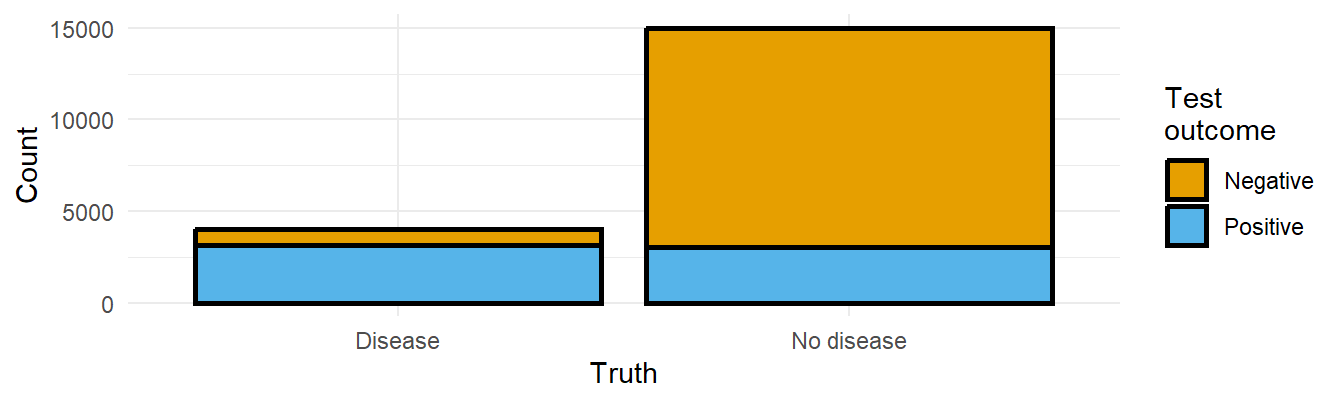
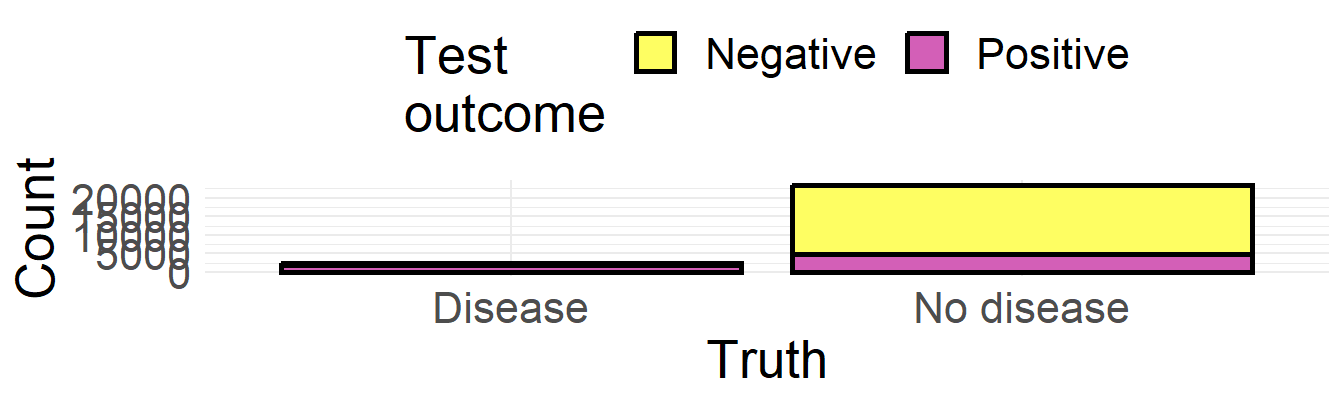
code used to update question

diff --git a/covid_question.html b/covid_question.html
@@ -80,6 +80,7 @@ pre > code.sourceCode > span > a:first-child::before { text-decoration: underlin
 <header id="title-block-header" class="quarto-title-block default">
 <div class="quarto-title">
 <h1 class="title">ds assessment question</h1>
+<p class="subtitle lead">disease</p>
 </div>
 
 
@@ -99,112 +100,36 @@ pre > code.sourceCode > span > a:first-child::before { text-decoration: underlin
 <section id="packages" class="level2">
 <h2 class="anchored" data-anchor-id="packages">Packages</h2>
 <div class="cell">
-<div class="sourceCode cell-code" id="cb1"><pre class="sourceCode r code-with-copy"><code class="sourceCode r"><span id="cb1-1"><a href="#cb1-1" aria-hidden="true" tabindex="-1"></a><span class="fu">library</span>(tidyverse)</span></code><button title="Copy to Clipboard" class="code-copy-button"><i class="bi"></i></button></pre></div>
-<div class="cell-output cell-output-stderr">
-<pre><code>── Attaching core tidyverse packages ──────────────────────── tidyverse 2.0.0 ──
-✔ dplyr     1.1.2     ✔ readr     2.1.4
-✔ forcats   1.0.0     ✔ stringr   1.5.0
-✔ ggplot2   3.4.2     ✔ tibble    3.2.1
-✔ lubridate 1.9.2     ✔ tidyr     1.3.0
-✔ purrr     1.0.1     
-── Conflicts ────────────────────────────────────────── tidyverse_conflicts() ──
-✖ dplyr::filter() masks stats::filter()
-✖ dplyr::lag()    masks stats::lag()
-ℹ Use the conflicted package (&lt;http://conflicted.r-lib.org/&gt;) to force all conflicts to become errors</code></pre>
-</div>
-<div class="sourceCode cell-code" id="cb3"><pre class="sourceCode r code-with-copy"><code class="sourceCode r"><span id="cb3-1"><a href="#cb3-1" aria-hidden="true" tabindex="-1"></a><span class="fu">library</span>(colorblindr)</span></code><button title="Copy to Clipboard" class="code-copy-button"><i class="bi"></i></button></pre></div>
-<div class="cell-output cell-output-stderr">
-<pre><code>Loading required package: colorspace</code></pre>
-</div>
-<div class="sourceCode cell-code" id="cb5"><pre class="sourceCode r code-with-copy"><code class="sourceCode r"><span id="cb5-1"><a href="#cb5-1" aria-hidden="true" tabindex="-1"></a><span class="fu">library</span>(ggmosaic)</span>
-<span id="cb5-2"><a href="#cb5-2" aria-hidden="true" tabindex="-1"></a><span class="fu">library</span>(patchwork)</span></code><button title="Copy to Clipboard" class="code-copy-button"><i class="bi"></i></button></pre></div>
+<div class="sourceCode cell-code" id="cb1"><pre class="sourceCode r code-with-copy"><code class="sourceCode r"><span id="cb1-1"><a href="#cb1-1" aria-hidden="true" tabindex="-1"></a><span class="fu">library</span>(tidyverse)</span>
+<span id="cb1-2"><a href="#cb1-2" aria-hidden="true" tabindex="-1"></a><span class="fu">library</span>(colorblindr)</span>
+<span id="cb1-3"><a href="#cb1-3" aria-hidden="true" tabindex="-1"></a><span class="fu">library</span>(ggmosaic)</span>
+<span id="cb1-4"><a href="#cb1-4" aria-hidden="true" tabindex="-1"></a><span class="fu">library</span>(patchwork)</span>
+<span id="cb1-5"><a href="#cb1-5" aria-hidden="true" tabindex="-1"></a><span class="fu">library</span>(viridis)</span></code><button title="Copy to Clipboard" class="code-copy-button"><i class="bi"></i></button></pre></div>
 </div>
 </section>
 <section id="sec-disease-screening" class="level2">
 <h2 class="anchored" data-anchor-id="sec-disease-screening">Disease Screening</h2>
-<p>Medical screening tests are not 100% accurate. It’s possible to have a disease but not test positive or not have a disease but test positive for it. The following three visualizations display the outcomes of a medical screening test with a sensitivity (true positive rate) of 98.1% and specificity (true negative rate) of 99.6% in a population where 5% of the individuals have COVID.</p>
+<p>Medical screening tests are not 100% accurate. It’s possible to have a disease but not test positive or not have a disease but test positive for it. The following three visualizations display the outcomes of a medical screening test with a sensitivity (true positive rate) of 78.2% and specificity (true negative rate) of 79.6% in a population where 5% of the individuals have the disease.</p>
 <p>We are also interested in the false positive (individuals classified as with a disease, who don’t actually have it) and false negative (individuals classified as without a disease, but who do actually have it) rates.</p>
 <div class="cell">
-<div class="sourceCode cell-code" id="cb6"><pre class="sourceCode r code-with-copy"><code class="sourceCode r"><span id="cb6-1"><a href="#cb6-1" aria-hidden="true" tabindex="-1"></a><span class="co"># https://www.fda.gov/medical-devices/coronavirus-disease-2019-covid-19-emergency-use-authorizations-medical-devices/eua-authorized-serology-test-performance</span></span>
-<span id="cb6-2"><a href="#cb6-2" aria-hidden="true" tabindex="-1"></a><span class="co"># IgG   Sensitivity (PPA)   98.1% (51/52)   (89.9%; 99.7%)</span></span>
-<span id="cb6-3"><a href="#cb6-3" aria-hidden="true" tabindex="-1"></a><span class="co"># IgG   Specificity (NPA)   99.6% (2000/2008)   (99.2%; 99.8%)</span></span>
-<span id="cb6-4"><a href="#cb6-4" aria-hidden="true" tabindex="-1"></a></span>
-<span id="cb6-5"><a href="#cb6-5" aria-hidden="true" tabindex="-1"></a>sensitivity <span class="ot">&lt;-</span> <span class="fl">0.782</span> <span class="co">#was .981 </span></span>
-<span id="cb6-6"><a href="#cb6-6" aria-hidden="true" tabindex="-1"></a>specificity <span class="ot">&lt;-</span> <span class="fl">0.796</span> <span class="co">#was .996</span></span>
-<span id="cb6-7"><a href="#cb6-7" aria-hidden="true" tabindex="-1"></a>n_disease <span class="ot">&lt;-</span> <span class="dv">4000</span> <span class="co">#was 1000</span></span>
-<span id="cb6-8"><a href="#cb6-8" aria-hidden="true" tabindex="-1"></a>n_no_disease <span class="ot">&lt;-</span> <span class="dv">15000</span> <span class="co">#was 19000</span></span>
-<span id="cb6-9"><a href="#cb6-9" aria-hidden="true" tabindex="-1"></a>n_disease_positive <span class="ot">&lt;-</span> n_disease <span class="sc">*</span> sensitivity</span>
-<span id="cb6-10"><a href="#cb6-10" aria-hidden="true" tabindex="-1"></a>n_disease_negative <span class="ot">&lt;-</span> n_disease <span class="sc">-</span> n_disease_positive</span>
-<span id="cb6-11"><a href="#cb6-11" aria-hidden="true" tabindex="-1"></a>n_no_disease_negative <span class="ot">&lt;-</span> n_no_disease <span class="sc">*</span> specificity</span>
-<span id="cb6-12"><a href="#cb6-12" aria-hidden="true" tabindex="-1"></a>n_no_disease_positive <span class="ot">&lt;-</span> n_no_disease <span class="sc">-</span> n_no_disease_negative</span>
-<span id="cb6-13"><a href="#cb6-13" aria-hidden="true" tabindex="-1"></a></span>
-<span id="cb6-14"><a href="#cb6-14" aria-hidden="true" tabindex="-1"></a></span>
-<span id="cb6-15"><a href="#cb6-15" aria-hidden="true" tabindex="-1"></a>disease_status <span class="ot">&lt;-</span> <span class="fu">c</span>(<span class="fu">rep</span>(<span class="st">"Disease"</span>, n_disease), <span class="fu">rep</span>(<span class="st">"No disease"</span>, n_no_disease))</span>
-<span id="cb6-16"><a href="#cb6-16" aria-hidden="true" tabindex="-1"></a>test_outcome <span class="ot">&lt;-</span> <span class="fu">c</span>(</span>
-<span id="cb6-17"><a href="#cb6-17" aria-hidden="true" tabindex="-1"></a>  <span class="fu">rep</span>(<span class="st">"Positive"</span>, n_disease_positive), <span class="fu">rep</span>(<span class="st">"Negative"</span>, n_disease_negative),</span>
-<span id="cb6-18"><a href="#cb6-18" aria-hidden="true" tabindex="-1"></a>  <span class="fu">rep</span>(<span class="st">"Positive"</span>, n_no_disease_positive), <span class="fu">rep</span>(<span class="st">"Negative"</span>, n_no_disease_negative)</span>
-<span id="cb6-19"><a href="#cb6-19" aria-hidden="true" tabindex="-1"></a>)</span>
-<span id="cb6-20"><a href="#cb6-20" aria-hidden="true" tabindex="-1"></a>population <span class="ot">&lt;-</span> <span class="fu">tibble</span>(<span class="at">disease_status =</span> disease_status, <span class="at">test_outcome =</span> test_outcome)</span>
-<span id="cb6-21"><a href="#cb6-21" aria-hidden="true" tabindex="-1"></a></span>
-<span id="cb6-22"><a href="#cb6-22" aria-hidden="true" tabindex="-1"></a>p1 <span class="ot">&lt;-</span> <span class="fu">ggplot</span>(population, <span class="fu">aes</span>(<span class="at">x =</span> disease_status, <span class="at">fill =</span> test_outcome)) <span class="sc">+</span></span>
-<span id="cb6-23"><a href="#cb6-23" aria-hidden="true" tabindex="-1"></a>  <span class="fu">geom_bar</span>(<span class="at">colour =</span> <span class="st">"black"</span> , <span class="at">lwd =</span> <span class="dv">1</span>) <span class="sc">+</span></span>
-<span id="cb6-24"><a href="#cb6-24" aria-hidden="true" tabindex="-1"></a>  <span class="fu">scale_fill_OkabeIto</span>() <span class="sc">+</span></span>
-<span id="cb6-25"><a href="#cb6-25" aria-hidden="true" tabindex="-1"></a>  <span class="fu">theme_minimal</span>() <span class="sc">+</span></span>
-<span id="cb6-26"><a href="#cb6-26" aria-hidden="true" tabindex="-1"></a>  <span class="fu">labs</span>(<span class="at">x =</span> <span class="st">"Truth"</span>, <span class="at">y =</span> <span class="st">"Count"</span>, <span class="at">fill =</span> <span class="st">"Test</span><span class="sc">\n</span><span class="st">outcome"</span>)</span>
-<span id="cb6-27"><a href="#cb6-27" aria-hidden="true" tabindex="-1"></a></span>
-<span id="cb6-28"><a href="#cb6-28" aria-hidden="true" tabindex="-1"></a>p1</span></code><button title="Copy to Clipboard" class="code-copy-button"><i class="bi"></i></button></pre></div>
 <div class="cell-output-display">
 <div>
 <figure class="figure">
-<p><img src="covid_question_files/figure-html/unnamed-chunk-2-1.png" class="img-fluid figure-img" width="672"></p>
+<p><img src="covid_question_files/figure-html/unnamed-chunk-3-1.png" class="img-fluid figure-img" width="672"></p>
 </figure>
 </div>
 </div>
-<div class="sourceCode cell-code" id="cb7"><pre class="sourceCode r code-with-copy"><code class="sourceCode r"><span id="cb7-1"><a href="#cb7-1" aria-hidden="true" tabindex="-1"></a>p2 <span class="ot">&lt;-</span> <span class="fu">ggplot</span>(population, <span class="fu">aes</span>(<span class="at">x =</span> disease_status, <span class="at">fill =</span> test_outcome)) <span class="sc">+</span></span>
-<span id="cb7-2"><a href="#cb7-2" aria-hidden="true" tabindex="-1"></a>  <span class="fu">geom_bar</span>(<span class="at">position =</span> <span class="st">"fill"</span>, <span class="at">color =</span> <span class="st">"black"</span>, <span class="at">lwd =</span> <span class="dv">1</span>) <span class="sc">+</span></span>
-<span id="cb7-3"><a href="#cb7-3" aria-hidden="true" tabindex="-1"></a>  <span class="fu">scale_fill_OkabeIto</span>() <span class="sc">+</span></span>
-<span id="cb7-4"><a href="#cb7-4" aria-hidden="true" tabindex="-1"></a>  <span class="fu">theme_minimal</span>() <span class="sc">+</span></span>
-<span id="cb7-5"><a href="#cb7-5" aria-hidden="true" tabindex="-1"></a>  <span class="fu">labs</span>(<span class="at">x =</span> <span class="st">"Truth"</span>, <span class="at">y =</span> <span class="st">"Proportion"</span>, <span class="at">fill =</span> <span class="st">"Test</span><span class="sc">\n</span><span class="st">outcome"</span>)</span>
-<span id="cb7-6"><a href="#cb7-6" aria-hidden="true" tabindex="-1"></a></span>
-<span id="cb7-7"><a href="#cb7-7" aria-hidden="true" tabindex="-1"></a>p2</span></code><button title="Copy to Clipboard" class="code-copy-button"><i class="bi"></i></button></pre></div>
 <div class="cell-output-display">
 <div>
 <figure class="figure">
-<p><img src="covid_question_files/figure-html/unnamed-chunk-2-2.png" class="img-fluid figure-img" width="672"></p>
+<p><img src="covid_question_files/figure-html/unnamed-chunk-3-2.png" class="img-fluid figure-img" width="672"></p>
 </figure>
 </div>
 </div>
-<div class="sourceCode cell-code" id="cb8"><pre class="sourceCode r code-with-copy"><code class="sourceCode r"><span id="cb8-1"><a href="#cb8-1" aria-hidden="true" tabindex="-1"></a>p3 <span class="ot">&lt;-</span> <span class="fu">ggplot</span>(<span class="at">data =</span> population) <span class="sc">+</span></span>
-<span id="cb8-2"><a href="#cb8-2" aria-hidden="true" tabindex="-1"></a>  <span class="fu">geom_mosaic</span>( <span class="at">offset =</span> <span class="fl">0.02</span>,</span>
-<span id="cb8-3"><a href="#cb8-3" aria-hidden="true" tabindex="-1"></a>              <span class="at">color =</span> <span class="st">"black"</span> , <span class="at">lwd =</span> <span class="dv">1</span>,</span>
-<span id="cb8-4"><a href="#cb8-4" aria-hidden="true" tabindex="-1"></a>    <span class="fu">aes</span>(<span class="at">x =</span> <span class="fu">product</span>(disease_status), <span class="at">fill =</span> test_outcome),</span>
-<span id="cb8-5"><a href="#cb8-5" aria-hidden="true" tabindex="-1"></a>    <span class="at">show.legend =</span> <span class="cn">FALSE</span></span>
-<span id="cb8-6"><a href="#cb8-6" aria-hidden="true" tabindex="-1"></a>  ) <span class="sc">+</span></span>
-<span id="cb8-7"><a href="#cb8-7" aria-hidden="true" tabindex="-1"></a>  <span class="fu">theme_mosaic</span>() <span class="sc">+</span></span>
-<span id="cb8-8"><a href="#cb8-8" aria-hidden="true" tabindex="-1"></a>  <span class="fu">scale_fill_OkabeIto</span>() <span class="sc">+</span></span>
-<span id="cb8-9"><a href="#cb8-9" aria-hidden="true" tabindex="-1"></a>  <span class="fu">labs</span>(<span class="at">x =</span> <span class="st">"Truth"</span>, <span class="at">y =</span> <span class="st">"Test outcome"</span>)</span>
-<span id="cb8-10"><a href="#cb8-10" aria-hidden="true" tabindex="-1"></a></span>
-<span id="cb8-11"><a href="#cb8-11" aria-hidden="true" tabindex="-1"></a>p3</span></code><button title="Copy to Clipboard" class="code-copy-button"><i class="bi"></i></button></pre></div>
-<div class="cell-output cell-output-stderr">
-<pre><code>Warning: `unite_()` was deprecated in tidyr 1.2.0.
-ℹ Please use `unite()` instead.
-ℹ The deprecated feature was likely used in the ggmosaic package.
-  Please report the issue at &lt;https://github.com/haleyjeppson/ggmosaic&gt;.</code></pre>
-</div>
 <div class="cell-output-display">
 <div>
 <figure class="figure">
-<p><img src="covid_question_files/figure-html/unnamed-chunk-2-3.png" class="img-fluid figure-img" width="672"></p>
-</figure>
-</div>
-</div>
-<div class="sourceCode cell-code" id="cb10"><pre class="sourceCode r code-with-copy"><code class="sourceCode r"><span id="cb10-1"><a href="#cb10-1" aria-hidden="true" tabindex="-1"></a>(p1 <span class="sc">+</span> p2 <span class="sc">/</span> p3) <span class="sc">+</span></span>
-<span id="cb10-2"><a href="#cb10-2" aria-hidden="true" tabindex="-1"></a>  <span class="fu">plot_layout</span>(<span class="at">guides =</span> <span class="st">"collect"</span>) <span class="sc">+</span></span>
-<span id="cb10-3"><a href="#cb10-3" aria-hidden="true" tabindex="-1"></a>  <span class="fu">plot_annotation</span>(<span class="at">tag_levels =</span> <span class="st">"A"</span>)</span></code><button title="Copy to Clipboard" class="code-copy-button"><i class="bi"></i></button></pre></div>
-<div class="cell-output-display">
-<div>
-<figure class="figure">
-<p><img src="covid_question_files/figure-html/unnamed-chunk-2-4.png" class="img-fluid figure-img" width="672"></p>
+<p><img src="covid_question_files/figure-html/unnamed-chunk-3-3.png" class="img-fluid figure-img" width="672"></p>
 </figure>
 </div>
 </div>
